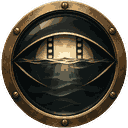
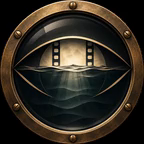
Replace layered emblem with a single frozen video and its exact first-frame poster

diff --git a/src/components/site-header.tsx b/src/components/site-header.tsx
@@ -1,7 +1,6 @@
 "use client";
 
 import Link from "next/link";
-import Image from "next/image";
 import { usePathname } from "next/navigation";
 import { useEffect, useRef, useState, type MouseEvent } from "react";
 import { useHydrated } from "@/lib/use-hydrated";
@@ -23,34 +22,32 @@ export function SiteHeader() {
   const hydrated = useHydrated();
   const { reducedMotion, forcedColors, experienceMode, documentVisible } = useExperienceQuality();
   const emblemVideoRef = useRef<HTMLVideoElement>(null);
-  const [emblemRequested, setEmblemRequested] = useState(false);
-  const [emblemHovered, setEmblemHovered] = useState(false);
-  const [emblemCycle, setEmblemCycle] = useState(0);
-  const [emblemPlaying, setEmblemPlaying] = useState(false);
-  const [emblemAtSeam, setEmblemAtSeam] = useState(true);
-  const [emblemFailed, setEmblemFailed] = useState(false);
+  const emblemSession = useRef(0);
+  const emblemFailed = useRef(false);
   const emblemAllowed = hydrated && !reducedMotion && !forcedColors && experienceMode !== "lite" && documentVisible;
-  const emblemActive = emblemAllowed && emblemHovered && !emblemFailed;
-  // Losing permission or visibility ends the hover session; it must never
-  // resume by itself when the tab becomes visible or motion is re-enabled.
-  if (!emblemAllowed && emblemHovered) setEmblemHovered(false);
 
-  // Keep the original bronze rim visible; load only on a deliberate mouse hover.
+  // One persistent video surface: poster = decoded first frame. Pausing
+  // leaves the actual decoded frame on screen, with no image substitution.
   useEffect(() => {
     const video = emblemVideoRef.current;
-    if (!video) return;
-    if (!emblemActive) { video.pause(); return; }
-    let current = true;
-    void video.play().catch((error: unknown) => {
-      if (current && !(error instanceof DOMException && error.name === "AbortError")) setEmblemFailed(true);
-    });
-    return () => { current = false; video.pause(); };
-  }, [emblemActive, emblemRequested, emblemCycle]);
+    if (!emblemAllowed) {
+      emblemSession.current++;
+      video?.pause();
+    }
+    return () => { emblemSession.current++; video?.pause(); };
+  }, [emblemAllowed, pathname]);
 
   function endEmblemHover() {
-    setEmblemHovered(false);
-    setEmblemPlaying(false);
+    emblemSession.current++;
     emblemVideoRef.current?.pause();
+  }
+
+  function restoreEmblemPoster(video: HTMLVideoElement) {
+    emblemFailed.current = true;
+    emblemSession.current++;
+    video.pause();
+    video.removeAttribute("src");
+    video.load();
   }
   const [scrolled, setScrolled] = useState(false);
   const [menuOpen, setMenuOpen] = useState(false);
@@ -152,29 +149,23 @@ export function SiteHeader() {
           if (event.pointerType !== "mouse" || !emblemAllowed || !window.matchMedia("(hover: hover) and (pointer: fine)").matches) return;
           const connection = (navigator as Navigator & { connection?: { saveData?: boolean; effectiveType?: string } }).connection;
           if (connection?.saveData || ["slow-2g", "2g"].includes(connection?.effectiveType ?? "")) return;
-          if (emblemFailed) return;
           const video = emblemVideoRef.current;
-          video?.pause();
-          if (video && video.readyState >= 1) video.currentTime = 0;
-          setEmblemAtSeam(true);
-          setEmblemPlaying(false);
-          setEmblemRequested(true);
-          setEmblemCycle(value => value + 1);
-          setEmblemHovered(true);
+          if (!video || emblemFailed.current) return;
+          const session = ++emblemSession.current;
+          video.muted = true;
+          if (!video.getAttribute("src")) video.src = "/art/deep-waters-hover.mp4";
+          void video.play().catch((error: unknown) => {
+            if (session !== emblemSession.current || (error instanceof DOMException && error.name === "AbortError")) return;
+            restoreEmblemPoster(video);
+          });
         }}
         onPointerLeave={endEmblemHover}
         onPointerCancel={endEmblemHover}
       >
-        <span className="brandMark" aria-hidden="true"><Image src="/art/deep-waters-emblem.png" alt="" width={128} height={128} loading="eager" unoptimized />
-          {emblemRequested && emblemAllowed && !emblemFailed ? <video ref={emblemVideoRef} className="brandEmblemVideo" src="/art/deep-waters-hover.mp4" data-playing={emblemActive && emblemPlaying} data-seam={emblemAtSeam} muted loop playsInline preload="none" disablePictureInPicture disableRemotePlayback tabIndex={-1} aria-hidden="true"
-            onLoadStart={() => setEmblemAtSeam(true)}
-            onTimeUpdate={event => {
-              const { currentTime, duration } = event.currentTarget;
-              // Fade to the exact static artwork before the native loop wraps.
-              setEmblemAtSeam(!Number.isFinite(duration) || currentTime < .16 || duration - currentTime < .55);
-            }}
-            onPlaying={event => { if (!event.currentTarget.paused) setEmblemPlaying(true); }} onPause={event => { if (event.currentTarget.paused) setEmblemPlaying(false); }} onWaiting={() => setEmblemPlaying(false)} onError={() => setEmblemFailed(true)} /> : null}
-        </span>
+        <span className="brandMark" aria-hidden="true"><video ref={emblemVideoRef} className="brandEmblemVideo"
+          poster="/art/deep-waters-emblem.png" width={144} height={144} muted loop playsInline preload="none"
+          disablePictureInPicture disableRemotePlayback tabIndex={-1} aria-hidden="true"
+          onError={event => { if (event.currentTarget.getAttribute("src")) restoreEmblemPoster(event.currentTarget); }} /></span>
         <span className="brandText"><strong lang="en">DEEP WATERS</strong>{" "}<small>Глубокие воды</small></span>
       </Link>
       <nav className="siteNav" aria-label="Основная навигация">

diff --git a/src/styles/shell/header.css b/src/styles/shell/header.css
@@ -147,12 +147,9 @@
 /* Brand and navigation share the observatory identity on every route. */
 .siteHeader .brand { gap:.6rem; min-width:44px; min-height:44px; justify-content:center; flex-shrink:0; }
 .siteHeader .brandMark { display:flex; flex:none; inline-size:56px; block-size:56px; position:relative; isolation:isolate; padding:0; border:0; border-radius:50%; overflow:hidden; }
-.siteHeader .brandMark img { display:block; width:100%; height:100%; object-fit:contain; transform-origin:center; }
-/* MP4 is opaque by design: clip and feather only the inner glass so the
-   transparent PNG supplies the perfectly still exterior and bronze rim. */
-.siteHeader .brandEmblemVideo { position:absolute; inset:10%; width:80%; height:80%; object-fit:contain; pointer-events:none; opacity:0; border-radius:50%; clip-path:circle(50% at 50% 50%); mask-image:radial-gradient(circle closest-side,#000 0 84%,transparent 99%); -webkit-mask-image:radial-gradient(circle closest-side,#000 0 84%,transparent 99%); transition:opacity .2s ease; }
-.siteHeader .brandEmblemVideo[data-playing="true"][data-seam="false"] { opacity:1; }
-@media (prefers-reduced-motion:reduce), (forced-colors:active) { .siteHeader .brandEmblemVideo { display:none; transition:none; } }
+/* A single circular viewport for poster and every decoded video frame.
+   The loop transition is encoded in the media, not layered in CSS. */
+.siteHeader .brandEmblemVideo { display:block; width:100%; height:100%; object-fit:contain; pointer-events:none; border-radius:50%; }
 @media (forced-colors:active) { .siteHeader .brandMark { outline:1px solid CanvasText; outline-offset:1px; } }
 .siteHeader .brandText { display:grid; gap:.2rem; }
 .siteHeader .brandText strong { font:400 1rem/1.1 Georgia,"Times New Roman",serif; letter-spacing:.12em; white-space:nowrap; }

diff --git a/tests/regression.test.ts b/tests/regression.test.ts
@@ -5916,8 +5916,8 @@ test("the page survives paper, anchors and the sticky header", () => {
   }
   assert.match(
     header,
-    /className="brandMark" aria-hidden="true"><Image src="\/art\/deep-waters-emblem\.png" alt=""/,
-    "the decorative PNG emblem must not enter the accessible link name",
+    /className="brandMark" aria-hidden="true"><video[\s\S]*?poster="\/art\/deep-waters-emblem\.png"/,
+    "the decorative video emblem must not enter the accessible link name",
   );
 
   // A bare `1fr` track grows to its widest child's min-content; the shell clips
